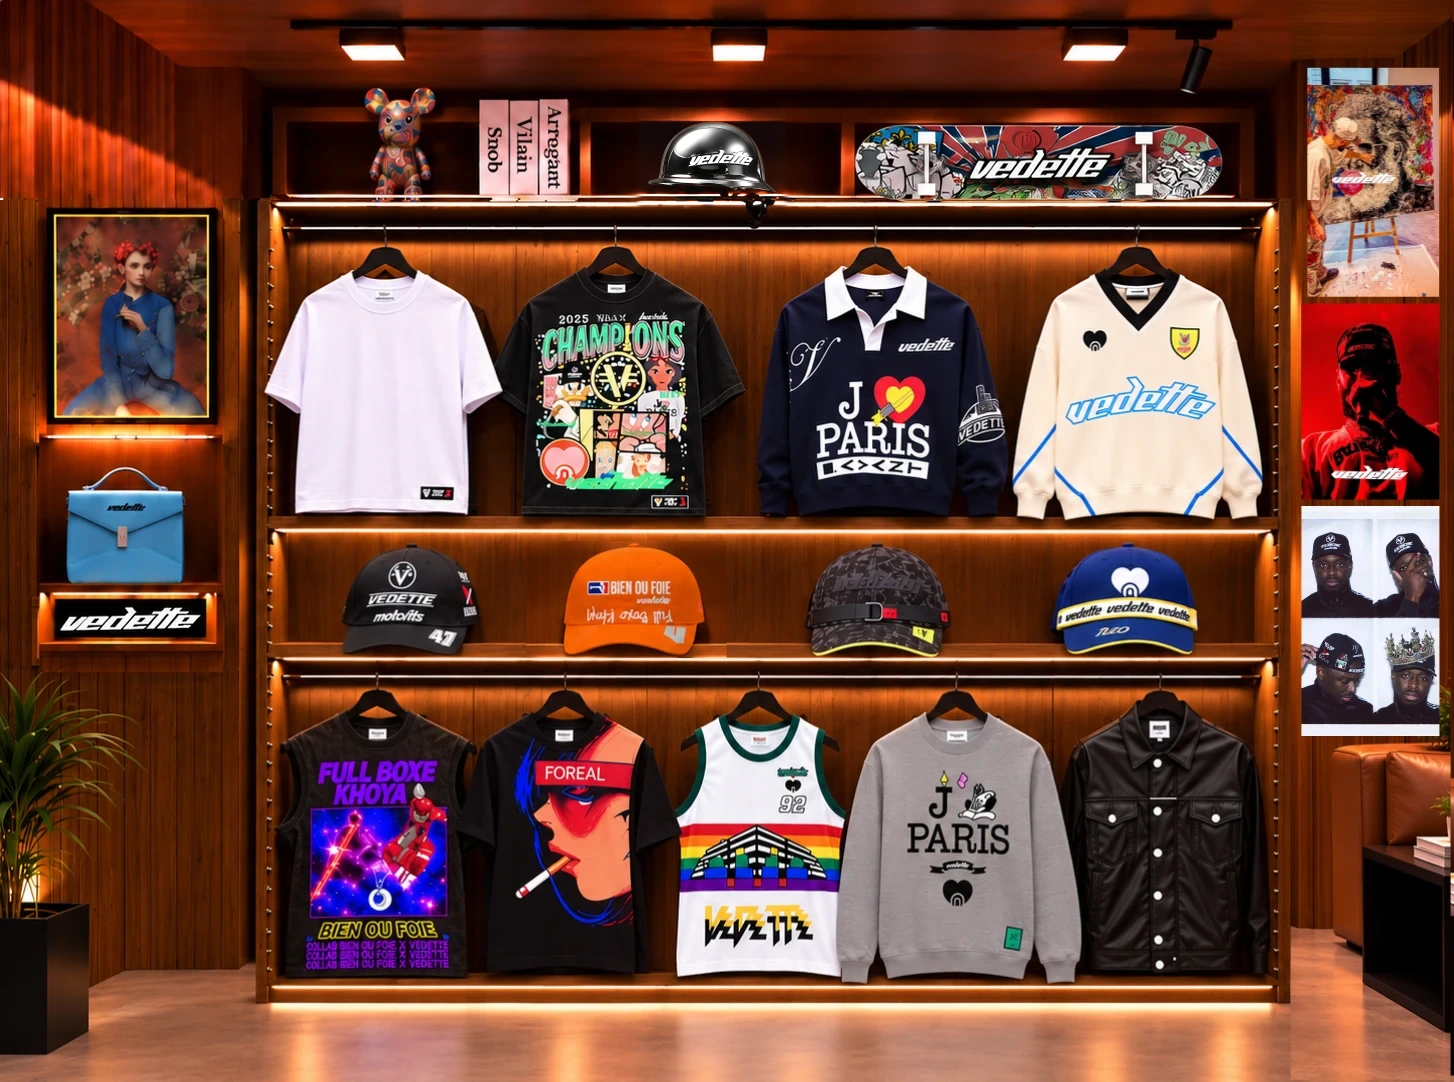
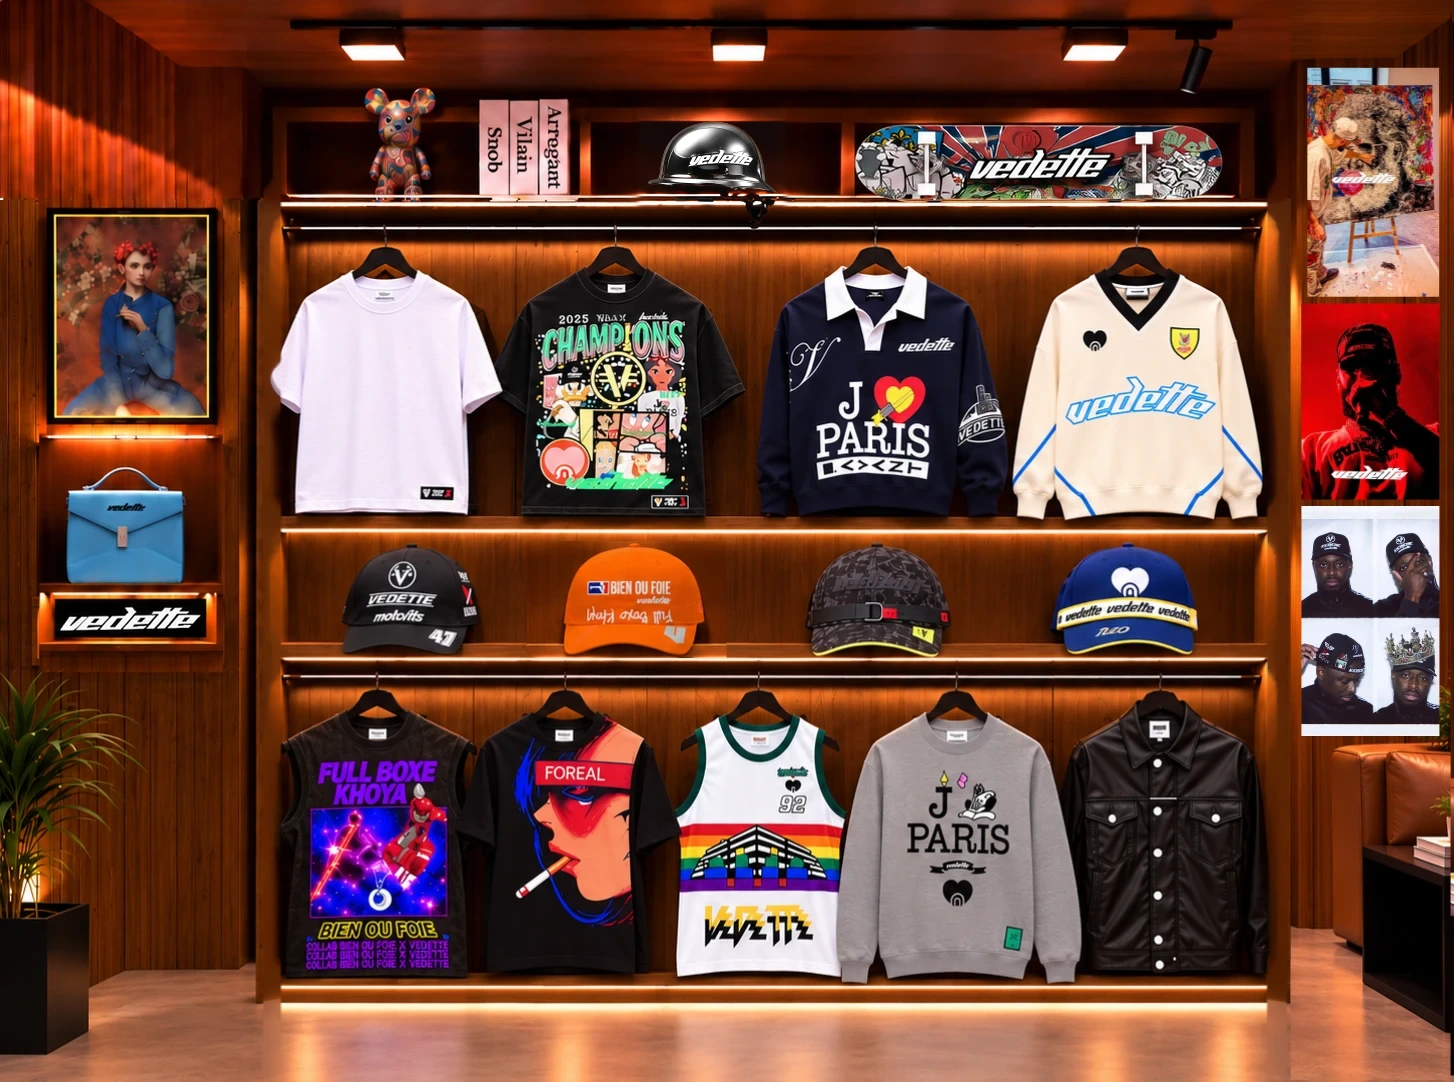
Mur : clous du meuble supprimés (montants lisses)
Claude-Session: https://claude.ai/code/session_01JHKczBwFKYFofkfxCnLE6j

diff --git a/src/data/collection.ts b/src/data/collection.ts
@@ -123,7 +123,7 @@ export const wallPosters: WallPoster[] = [
   { id: "artiste-rouge", name: "Sur scène — Vedette", src: "/collection/posters/artiste-rouge.webp?v=2", w: 1132, h: 1583, spot: { x: 94.39, y: 37.11, w: 9.28, h: 18.21 } },
   { id: "cabine-photo", name: "Photomaton — casquettes Vedette", src: "/collection/posters/cabine-photo.webp", w: 1163, h: 1479, spot: { x: 94.22, y: 57.39, w: 9.63, h: 21.44 } },
 ];
-export const WALL_IMAGE = "/collection/wall.webp?v=6";
+export const WALL_IMAGE = "/collection/wall.webp?v=7";
 
 const P = "/collection/products/";
 const C = "/cabine/looks/";
